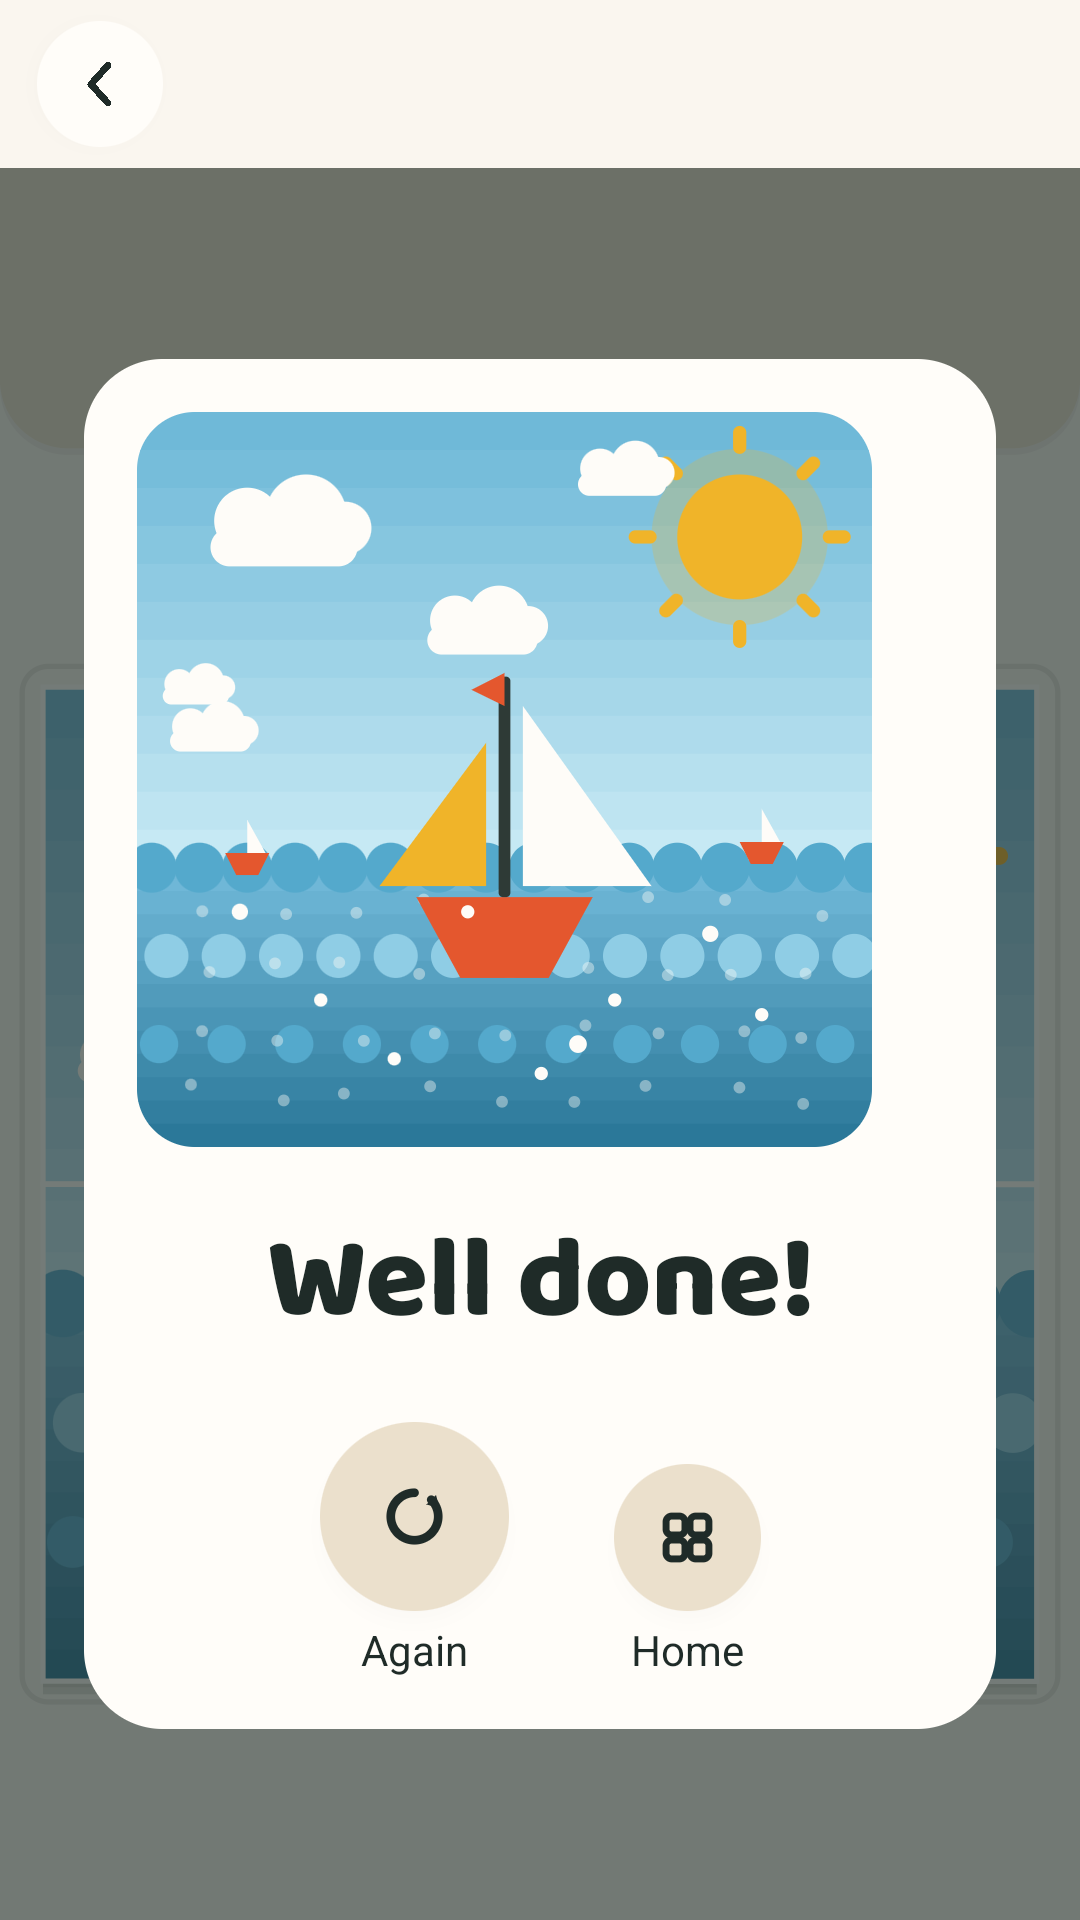
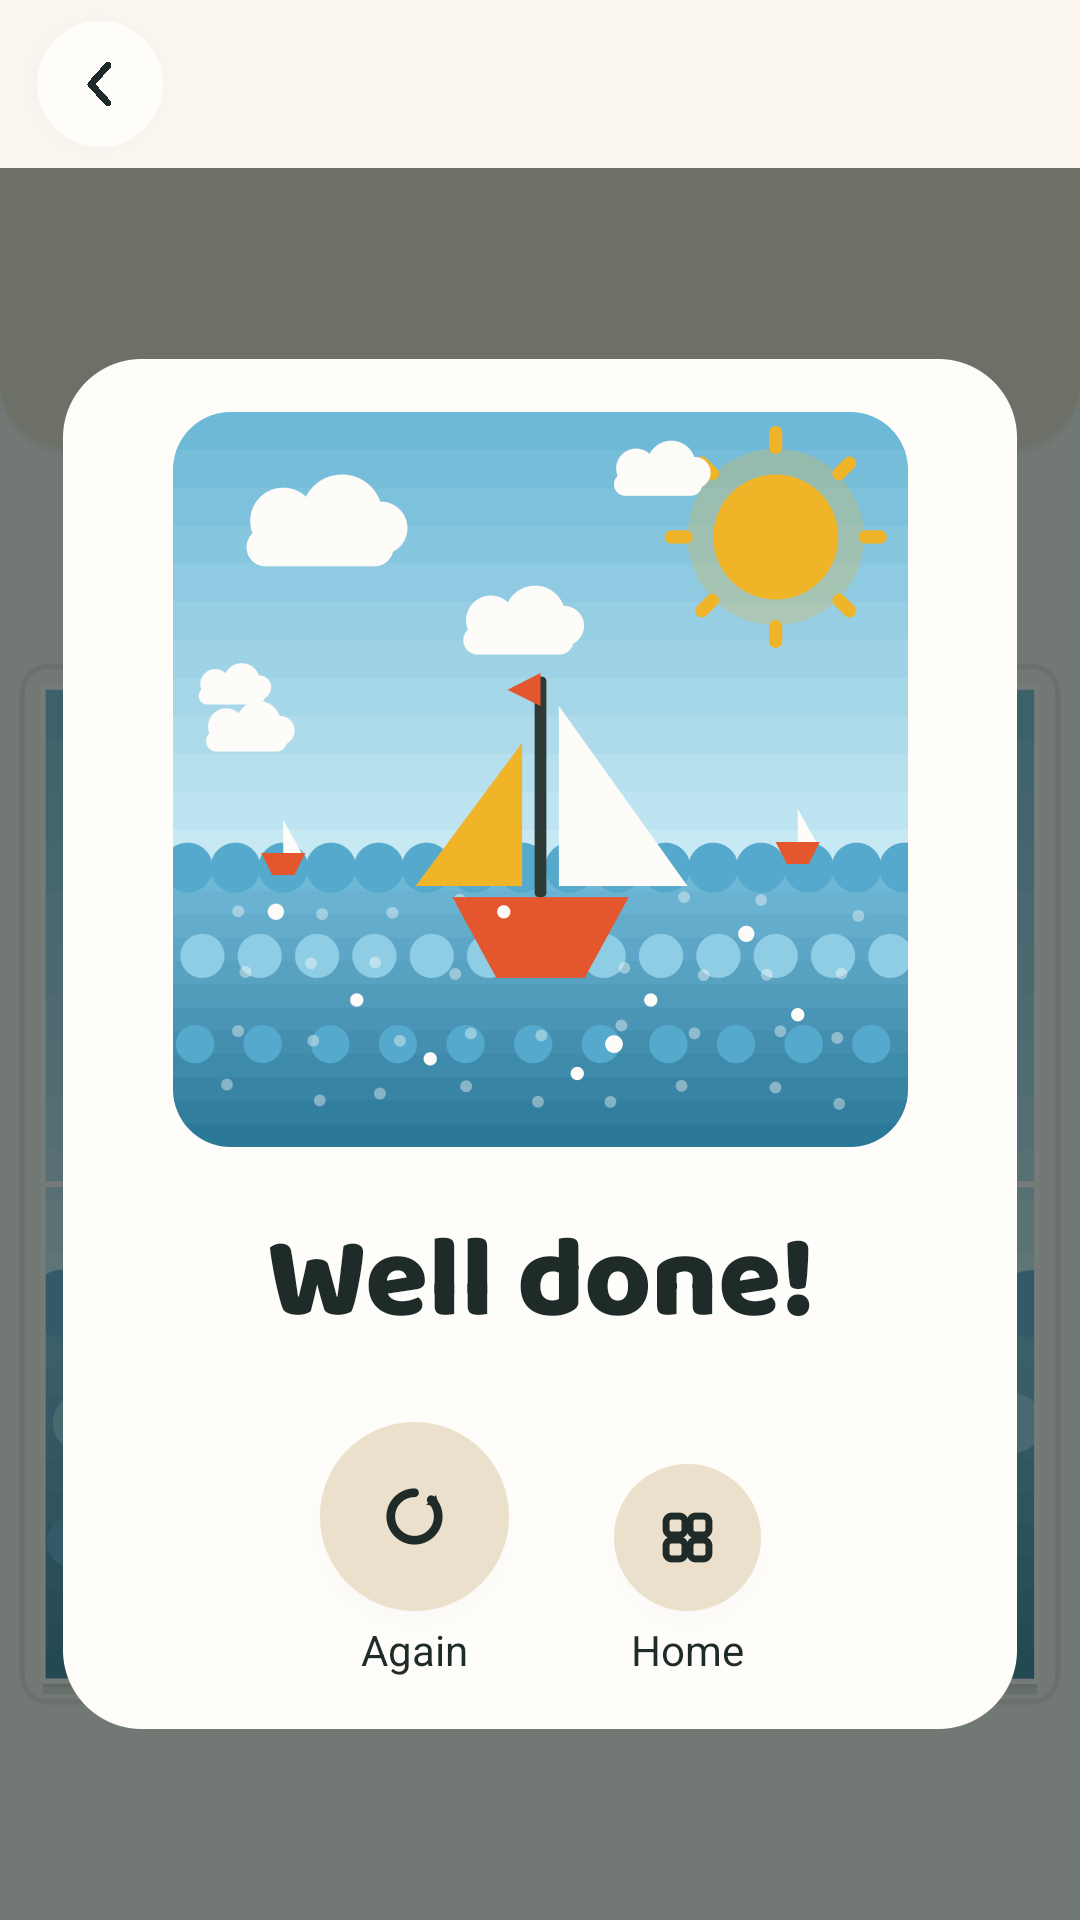
Fresh captures for 1.7: the fixed celebration, the won chooser, landscape on all three form factors

diff --git a/play-store/play-store-submission-guide.md b/play-store/play-store-submission-guide.md
@@ -100,8 +100,10 @@ All three sets live under `play-store/screenshots/`, one subfolder per form
 factor (`phone/`, `tablet7/`, `tablet10/`), captured by CI whenever UI files
 change and refreshed into those same subfolders in the same session. Upload
 each subfolder's PNGs to its Play Console slot, in filename order (01_home
-first, and 09_choose last); a Families-reviewed listing should match what
-ships. To look at every picture before a content change, run
+first, and 11_celebration_land last); a Families-reviewed listing should
+match what ships. The landscape finish (11) is optional for the store: it
+documents that the game plays in landscape. To look at every picture before
+a content change, run
 `:tools:makeScenes`, which writes a sheet into `build/scenes` (never
 committed). The
 celebration scene is mid-animation by design, so its pixels wobble a little
@@ -146,6 +148,12 @@ external links reachable by a child, no ads.
 versionCode 1 is 0.1, versionCode 2 is 0.2, versionCode 10 is 1.0,
 versionCode 11 is 1.1, and so on. Never reuse a versionCode. The first
 store appearance (closed testing) is versionCode 1, versionName 0.1.
+
+## Release notes for closed testing 1.7 (measured: 493 chars)
+
+```
+Puzzlet 1.7 fixes five things you found. Tapping 4 in the size chooser now always deals 4 pieces; on pictures you had already won, the game could deal one size up. The finished picture sits centered on the well done plate. In landscape the plate reshapes to fit the screen, so the picture, the praise and both buttons are always on it, on every phone and tablet. The launcher and store icon were recut smaller, so no launcher mask ever clips a corner. Still fully offline, no ads, no accounts.
+```
 
 ## Release notes for closed testing 1.6 (measured: 494 chars)
 
@@ -251,8 +259,10 @@ Second closed-testing build of Puzzlet. Eight pictures, each cut into 4 to 24 pi
    versionCode 14, versionName 1.4, signed; 1.4 was submitted and the
    folder was deleted after. For 1.6 the same check ran green: CI build
    and capture both succeeded, the AAB and its APK twin read versionCode
-   16, versionName 1.6, signed. After submitting a build for review,
-   always delete it from the folder.)
+   16, versionName 1.6, signed. For 1.7 the same check ran green: CI
+   build and capture both succeeded, and the AAB read versionCode 17,
+   versionName 1.7, package io.github.muntasimulhaque.puzzlet. After
+   submitting a build for review, always delete it from the folder.)
 2. Play Console: create the app. The package name is io.github.muntasimulhaque.puzzlet
    (type it exactly; it is permanent). Name it from the listing, mark it a Game,
    and set it PAID with a one-time price (a merchant payments profile is
